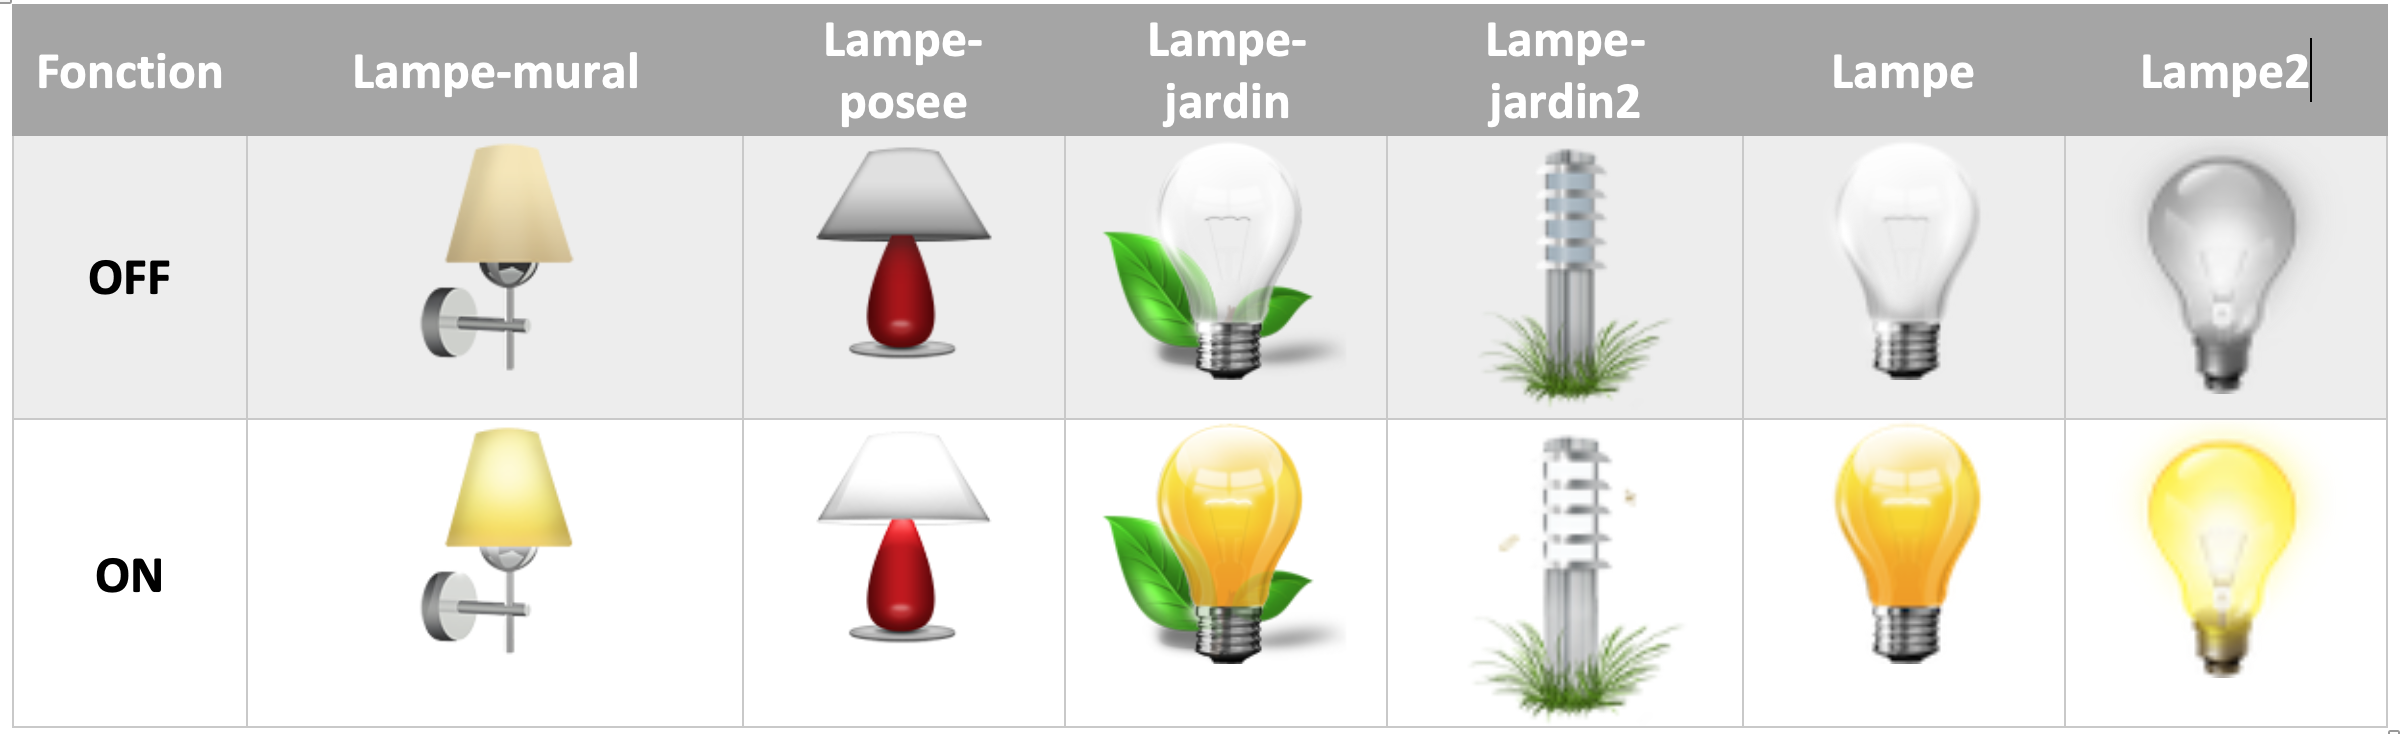
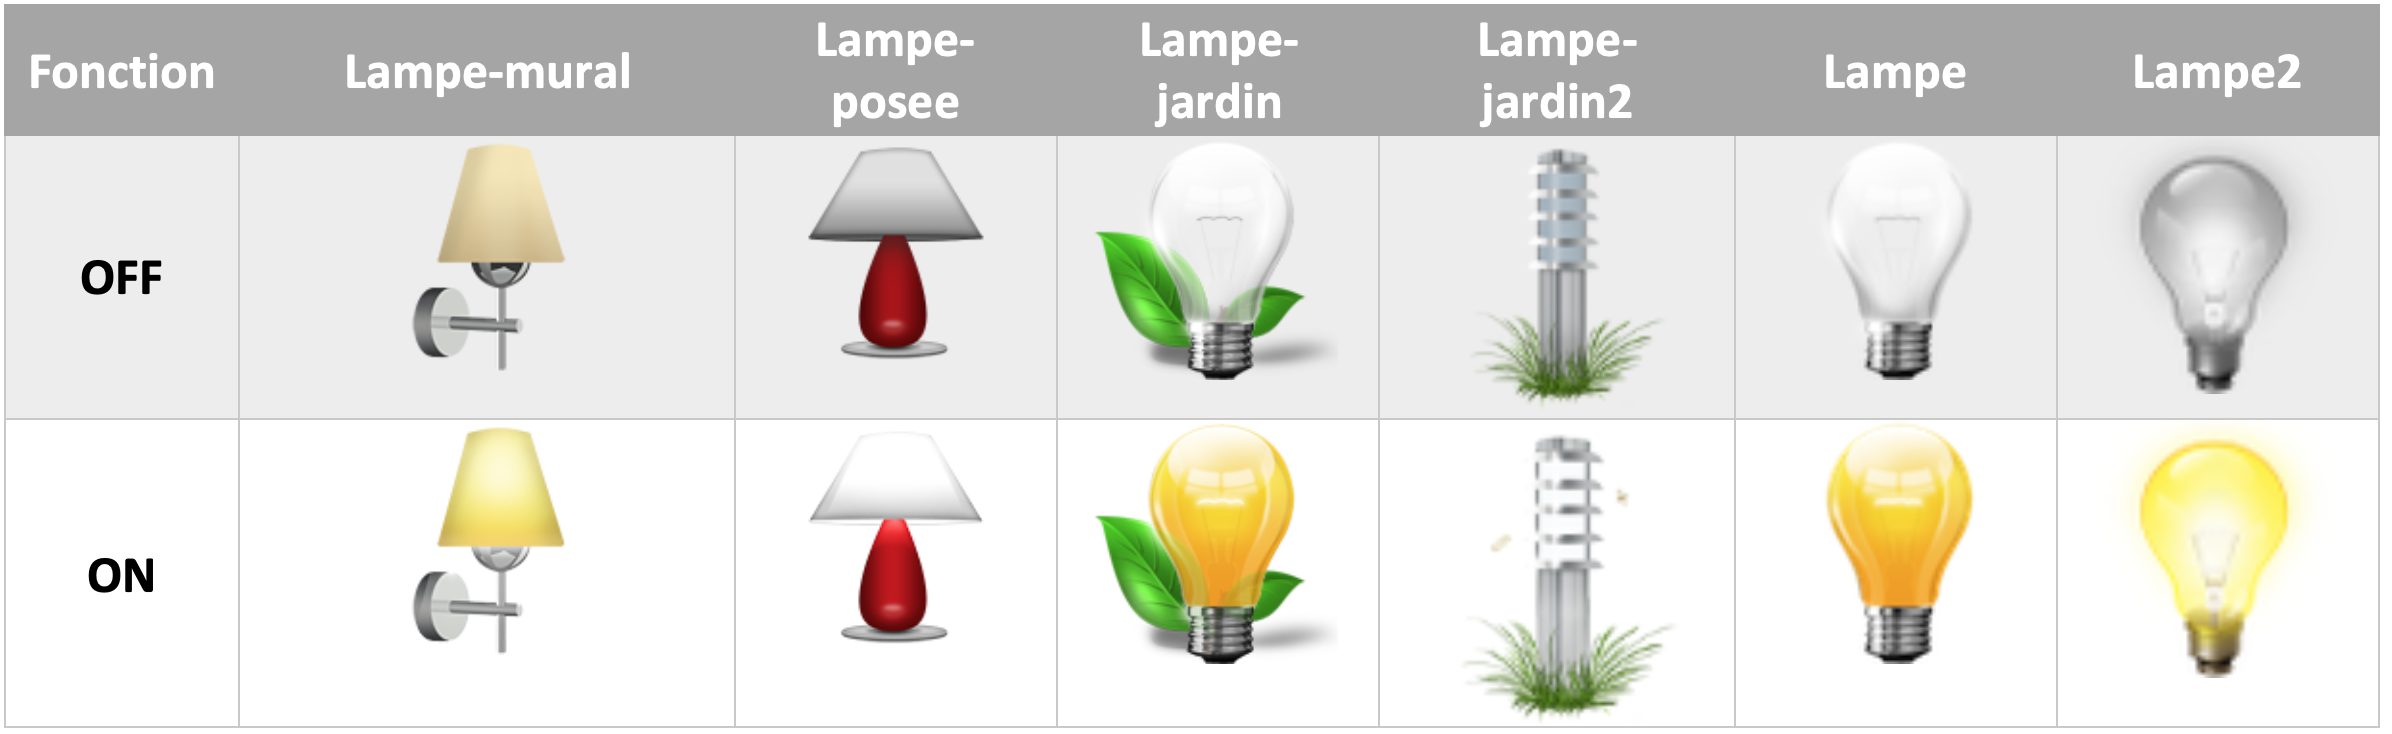
Mise à jour des images

diff --git a/JEEDOM-Lampe-Binaire-README.md b/JEEDOM-Lampe-Binaire-README.md
@@ -11,7 +11,7 @@ Widget pour Jeedom permettant d'afficher une icône pour une fonction de type <b
 Le widget inclus d'office 12 types de lampes (6xON et 6xOFF). Il est possible d'ajouter ses propres icônes.
 </blockquote>
 
-<p><img src="Img/JEEDOM-Lampe-Binaire-Visuel.png" alt="Visuels" /></p>
+<p><img src="Img/JEEDOM-Lampe-Visuel.png" alt="Visuels" /></p>
 
 <h1 id="Type de paramètre">Type de paramètre</h1>
 <hr />
@@ -44,7 +44,17 @@ Il est possible d'afficher les informations de temps depuis le dernier allumage/
                 </dd>
         </ul>
 </blockquote>
-    
+ 
+<h4 id="Error">Pour afficher les valeurs de temps</h4>
+En cas de défaut d'erreur, le widget affichage un icône d'erreur, il est possible de paramétrer cette image
+<blockquote>
+        <ul>
+            <li><b>logoER</b> : Permet de choisir l'image pour la valeur ETAT en cas de problème <i>(valeur par défaut : oups)</i></li>
+            <li><b>logoER_type</b> : Permet de choisir l'extension pour l'image pour la valeur ETAT en cas de problème <i>(valeur par défaut : png)</i></li>
+        </ul>
+<p><img src="Img/Image-Error.png" alt="Error" /></p>
+</blockquote>
+
 <h1 id="Aide Paramétrage">Aide pour le paramétrage du widget</h1>
 <hr />
 <h5 id="header-5">Paramétrage de l'équipement</h5>

diff --git a/JEEDOM-Lampe-README.md b/JEEDOM-Lampe-README.md
@@ -10,7 +10,7 @@ Widget pour Jeedom permettant d'afficher une icône pour une fonction de type <b
 <blockquote>
     Le widget inclus d'office 12 types de lampes (6xON et 6xOFF). Il est possible d'ajouter ses propres icônes.
 </blockquote>
-    <p><img src="Img/JEEDOM-Lampe--mobile-Visuel.png" alt="Visuels" /></p>
+<p><img src="Img/JEEDOM-Lampe-Visuel.png" alt="Visuels" /></p>
 
 <h1 id="Type de paramètre">Type de paramètre</h1>
 <hr />

diff --git a/JEEDOM-Lampe--mobile-README.md b/JEEDOM-Lampe--mobile-README.md
@@ -10,7 +10,7 @@ Widget pour Jeedom permettant d'afficher une icône pour une fonction de type <b
 <blockquote>
     Le widget inclus d'office 12 types de lampes (6xON et 6xOFF). Il est possible d'ajouter ses propres icônes.
 </blockquote>
-<p><img src="Img/JEEDOM-Lampe--mobile-Visuel.png" alt="Visuels" /></p>
+<p><img src="Img/JEEDOM-Lampe-Visuel.png" alt="Visuels" /></p>
 
 <h1 id="Type de paramètre">Type de paramètre</h1>
 <hr />
